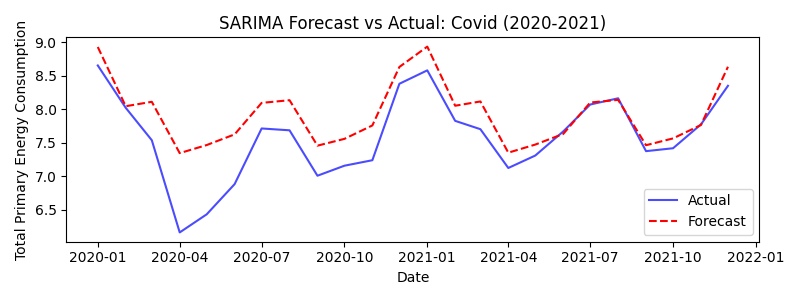
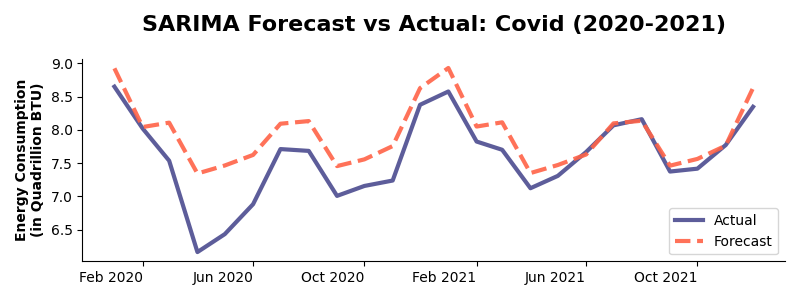
adjusted visual look of the plots

diff --git a/analysis/error_analysis.py b/analysis/error_analysis.py
@@ -25,23 +25,56 @@ def error_over_time(actual, forecast, plot_dir="img/", model_name="Modell"):
         "MAPE": mape(g["actual"], g["forecast"]),
     }))
 
-    # Plot MAPE pro Jahr
+    # Plot MAPE pro Jahr – mit farb- und alpha-codierten Balken
     plt.figure(figsize=(10, 4))
-    plt.bar(metrics_year.index.astype(str), metrics_year["MAPE"])
-    plt.title(f"MAPE pro Jahr – {model_name}")
-    plt.xlabel("Jahr")
-    plt.ylabel("MAPE (%)")
+    cmap = plt.cm.Blues
+    mape_vals = metrics_year["MAPE"].values
+    norm = plt.Normalize(mape_vals.min(), mape_vals.max())
+    bar_colors = [cmap(norm(m)) for m in mape_vals]
+    bar_alphas = [0.7 + 0.3 * norm(m) for m in mape_vals]
+
+    bars = []
+    for idx, (color, alpha) in enumerate(zip(bar_colors, bar_alphas)):
+        bar = plt.bar(str(metrics_year.index[idx]), mape_vals[idx], color=color, alpha=alpha)
+        bars.append(bar)
+
+    # Titel und Achsenbeschriftung fett und größer
+    plt.title(f"MAPE per year – {model_name}", fontweight='bold', fontsize=16, pad=20)
+    #plt.xlabel("Year", fontweight='bold', fontsize=12)
+    plt.xlabel("")
+    plt.ylabel("MAPE (%)", fontweight='bold', fontsize=12)
+
+    # Rechten und oberen Rahmen entfernen
+    ax = plt.gca()
+    ax.spines['right'].set_visible(False)
+    ax.spines['top'].set_visible(False)
+
     plt.tight_layout()
     plt.savefig(f"{plot_dir}{model_name.lower()}_mape_per_year.png")
     plt.close()
 
-    # Plot MAPE pro Monat
+    # Plot MAPE pro Monat – mit farb- und alpha-codierten Balken
     plt.figure(figsize=(10, 4))
-    month_names = ['Jan', 'Feb', 'Mär', 'Apr', 'Mai', 'Jun', 'Jul', 'Aug', 'Sep', 'Okt', 'Nov', 'Dez']
-    plt.bar([month_names[m-1] for m in metrics_month.index], metrics_month["MAPE"])
-    plt.title(f"MAPE pro Monat – {model_name}")
-    plt.xlabel("Monat")
-    plt.ylabel("MAPE (%)")
+    month_names = ['Jan', 'Feb', 'Mar', 'Apr', 'May', 'Jun', 'Jul', 'Aug', 'Sep', 'Oct', 'Nov', 'Dec']
+    mape_vals = metrics_month["MAPE"].values
+    norm = plt.Normalize(mape_vals.min(), mape_vals.max())
+    bar_colors = [cmap(norm(m)) for m in mape_vals]
+    bar_alphas = [0.7 + 0.3 * norm(m) for m in mape_vals]
+
+    bars = []
+    for idx, (color, alpha) in enumerate(zip(bar_colors, bar_alphas)):
+        bar = plt.bar(month_names[metrics_month.index[idx]-1], mape_vals[idx], color=color, alpha=alpha)
+        bars.append(bar)
+
+    plt.title(f"MAPE pro Monat – {model_name}", fontweight='bold', fontsize=16, pad=20)
+    #plt.xlabel("Monat", fontweight='bold', fontsize=12)
+    plt.xlabel("")
+    plt.ylabel("MAPE (%)", fontweight='bold', fontsize=12)
+
+    ax = plt.gca()
+    ax.spines['right'].set_visible(False)
+    ax.spines['top'].set_visible(False)
+
     plt.tight_layout()
     plt.savefig(f"{plot_dir}{model_name.lower()}_mape_per_month.png")
     plt.close()

diff --git a/analysis/event_impact_analysis.py b/analysis/event_impact_analysis.py
@@ -1,18 +1,9 @@
-# analysis/event_impact_analysis.py
-
 import pandas as pd
 import matplotlib.pyplot as plt
 from models.utils_metrics import mad, mae, rmse, mape
+import matplotlib.dates as mdates
 
 def event_error_analysis(actual, forecast, events, plot_dir="img/", model_name="Modell"):
-    """
-    events: dict, z.B. {
-        "Covid (2020-2021)": ("2020-01-01", "2021-12-31"),
-        "Russland-Krieg (2022-)": ("2022-01-01", "2024-12-31")
-    }
-    actual, forecast: pd.Series (gleicher Index)
-    """
-
     error_results = {}
 
     for event, (start, end) in events.items():
@@ -34,15 +25,29 @@ def event_error_analysis(actual, forecast, events, plot_dir="img/", model_name="
 
         # Plot Forecast vs Actual für das Event
         plt.figure(figsize=(8, 3))
-        plt.plot(period_actual, label="Actual", color="blue", alpha=0.7)
-        plt.plot(period_forecast, label="Forecast", color="red", linestyle="--")
-        plt.title(f"{model_name} Forecast vs Actual: {event}")
-        plt.xlabel("Date")
-        plt.ylabel("Total Primary Energy Consumption")
+        plt.plot(period_actual, label="Actual", color="midnightblue", alpha=0.7, linewidth=3)
+        plt.plot(period_forecast, label="Forecast", color="tomato", linewidth=3, linestyle="--", alpha=0.9)
+
+        # Titel und Achsenbeschriftungen bold und größer
+        plt.title(f"{model_name} Forecast vs Actual: {event}", fontweight='bold', fontsize=16, pad=20)
+        plt.xlabel("")
+
+        # Zweizeiliges Y-Label (nur das erste bold, zweite Zeile nicht)
+        plt.ylabel("Energy Consumption\n(in Quadrillion BTU)", fontsize=10, fontweight='bold')
+        ax = plt.gca()
+        ax.spines['right'].set_visible(False)
+        ax.spines['top'].set_visible(False)
+
+        # X-Tick-Labels im Format "Jan 2020"
+        ax.xaxis.set_major_locator(mdates.MonthLocator(interval=5))  # alle 2 Monate
+        ax.xaxis.set_major_formatter(mdates.DateFormatter('%b %Y'))
+
+        plt.setp(ax.get_xticklabels(), fontsize=10)
+
         plt.legend()
         plt.tight_layout()
-        plt.savefig(f"{plot_dir}{model_name.lower()}_forecast_vs_actual_{event.replace(' ', '_').replace('(', '').replace(')', '').replace('-', '')}.png")
+        fname = f"{plot_dir}{model_name.lower()}_forecast_vs_actual_{event.replace(' ', '_').replace('(', '').replace(')', '').replace('-', '')}.png"
+        plt.savefig(fname)
         plt.close()
 
     return pd.DataFrame(error_results).T
-

diff --git a/models/holt_winters.py b/models/holt_winters.py
@@ -1,5 +1,3 @@
-# models/holt_winters.py
-
 import pandas as pd
 import matplotlib.pyplot as plt
 from statsmodels.tsa.holtwinters import ExponentialSmoothing
@@ -27,12 +25,25 @@ def holt_winters_forecast(series, train_end_year, test_end_year, seasonal='add',
 
     # Plot: Forecast vs Actual
     plt.figure(figsize=(12, 6))
-    plt.plot(train, label="Train", color="grey", alpha=0.6)
-    plt.plot(actual, label="Actual", color="blue", alpha=0.7)
-    plt.plot(forecast, label="Forecast", color="red", linestyle="--")
-    plt.title(f"Holt-Winters Forecast vs Actual ({train_end_year+1}-{test_end_year})")
-    plt.xlabel("Date")
-    plt.ylabel("Total Primary Energy Consumption")
+    plt.plot(train, label="Train", color="grey", alpha=0.6, linewidth=1)
+    plt.plot(actual, label="Actual", color="midnightblue", alpha=0.9, linestyle="-", linewidth=1.5)
+    plt.plot(forecast, label="Forecast", color="tomato", linestyle="-", linewidth=1.1)
+
+    # Achsen und Titel fett und größer
+    plt.title(f"Holt-Winters Forecast vs Actual ({train_end_year+1}-{test_end_year})", fontweight='bold', fontsize=16, pad=20)
+    #plt.xlabel("Year", fontweight='bold', fontsize=13)
+    plt.xlabel("")
+    plt.ylabel("Total Energy Consumption\n(in Quadrillion BTU)", fontweight='bold', fontsize=12)
+
+    # Y-Achsenlabels: alle vier Jahre
+    ax = plt.gca()
+    ax.spines['right'].set_visible(False)
+    ax.spines['top'].set_visible(False)
+    years = pd.date_range(start=train.index.min(), end=forecast.index.max(), freq="YS")
+    year_labels = [y for y in years.year if (y % 4 == 0 or y == years.year[0] or y == years.year[-1])]
+    ax.set_xticks([pd.Timestamp(f"{y}-01-01") for y in year_labels])
+    ax.set_xticklabels([str(y) for y in year_labels], rotation=0)
+
     plt.legend()
     plt.tight_layout()
     plt.savefig(f"{plot_dir}holt_winters_forecast_vs_actual.png")

diff --git a/models/arima.py b/models/arima.py
@@ -1,5 +1,3 @@
-# models/arima_model.py
-
 import pandas as pd
 import matplotlib.pyplot as plt
 import pmdarima as pm
@@ -34,12 +32,25 @@ def arima_sarima_forecast(series, train_end_year, test_end_year, seasonal=True, 
 
     # Plot: Forecast vs Actual
     plt.figure(figsize=(12, 6))
-    plt.plot(train, label="Train", color="grey", alpha=0.6)
-    plt.plot(actual, label="Actual", color="blue", alpha=0.7)
-    plt.plot(forecast, label="Forecast", color="green", linestyle="--")
-    plt.title(f"SARIMA Forecast vs Actual ({train_end_year+1}-{test_end_year})")
-    plt.xlabel("Date")
-    plt.ylabel("Total Primary Energy Consumption")
+    plt.plot(train, label="Train", color="grey", alpha=0.6, linewidth=1)
+    plt.plot(actual, label="Actual", color="midnightblue", alpha=0.9, linestyle="-", linewidth=1.5)
+    plt.plot(forecast, label="Forecast", color="tomato", linestyle="-", linewidth=1.1)
+
+    # Achsen und Titel fett und größer
+    plt.title(f"SARIMA Forecast vs Actual ({train_end_year+1}-{test_end_year})", fontweight='bold', fontsize=16, pad=20)
+    #plt.xlabel("Year", fontweight='bold', fontsize=13)
+    plt.xlabel("")
+    plt.ylabel("Total Energy Consumption\n(in Quadrillion BTU)", fontweight='bold', fontsize=12)
+
+    # Y-Achsenlabels: alle vier Jahre
+    ax = plt.gca()
+    ax.spines['right'].set_visible(False)
+    ax.spines['top'].set_visible(False)
+    years = pd.date_range(start=train.index.min(), end=forecast.index.max(), freq="YS")
+    year_labels = [y for y in years.year if (y % 4 == 0 or y == years.year[0] or y == years.year[-1])]
+    ax.set_xticks([pd.Timestamp(f"{y}-01-01") for y in year_labels])
+    ax.set_xticklabels([str(y) for y in year_labels], rotation=0)
+
     plt.legend()
     plt.tight_layout()
     plt.savefig(f"{plot_dir}sarima_forecast_vs_actual.png")

diff --git a/analysis/error_heatmap.py b/analysis/error_heatmap.py
@@ -33,11 +33,11 @@ def mape_heatmap(actual, forecast, plot_dir="img/", model_name="Modell"):
     plt.figure(figsize=(12, 6))
     plt.imshow(mape_matrix, aspect="auto", cmap="Reds", interpolation="none")
     plt.colorbar(label="MAPE (%)")
-    plt.xticks(np.arange(12), ['Jan', 'Feb', 'Mär', 'Apr', 'Mai', 'Jun', 'Jul', 'Aug', 'Sep', 'Okt', 'Nov', 'Dez'])
+    plt.xticks(np.arange(12), ['Jan', 'Feb', 'Mar', 'Apr', 'May', 'Jun', 'Jul', 'Aug', 'Sep', 'Oct', 'Nov', 'Dec'])
     plt.yticks(np.arange(len(pivot.index)), [str(y) for y in pivot.index])
-    plt.title(f"MAPE-Heatmap pro Jahr & Monat ({model_name})")
-    plt.xlabel("Monat")
-    plt.ylabel("Jahr")
+    plt.title(f"MAPE-Heatmap pro Jahr & Monat ({model_name})", fontweight='bold', fontsize=13, pad=20)
+    #plt.xlabel("Month", fontweight='bold', fontsize=12)
+    #plt.ylabel("Year", fontweight='bold', fontsize=12)
     plt.tight_layout()
     plt.savefig(f"{plot_dir}{model_name.lower()}_mape_heatmap.png")
     plt.close()

diff --git a/analysis/model_comparison.py b/analysis/model_comparison.py
@@ -3,11 +3,7 @@
 import pandas as pd
 
 def model_comparison_table(*results, model_names=None):
-    """
-    results: beliebig viele Ergebnisdicts, jeweils mit keys 'mad', 'mae', 'rmse', 'mape'
-    model_names: optionale Liste von Modellnamen (in gleicher Reihenfolge wie results)
-    Gibt einen DataFrame mit Modellvergleich zurück.
-    """
+
     data = []
     for i, res in enumerate(results):
         name = model_names[i] if model_names else f"Modell_{i+1}"

diff --git a/main.py b/main.py
@@ -8,6 +8,9 @@ from analysis.error_analysis import error_over_time
 from analysis.model_comparison import model_comparison_table
 from analysis.error_heatmap import mape_heatmap
 
+import warnings
+warnings.filterwarnings("ignore", category=FutureWarning)
+
 
 
 DATA_PATH = "data/energyconsumption.csv"
